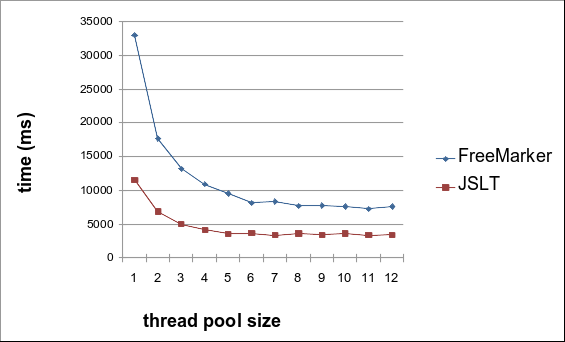
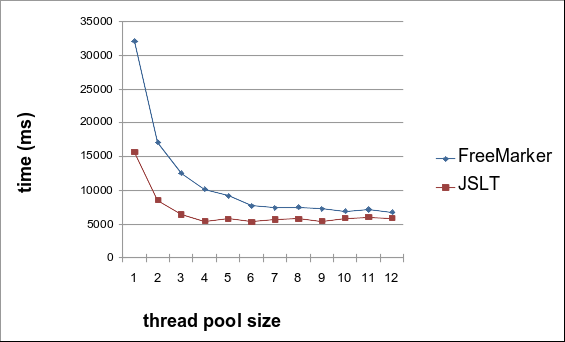
Reviewed results

diff --git a/src/test/java/net/dsf/transformation/ScalabilityTest.java b/src/test/java/net/dsf/transformation/ScalabilityTest.java
@@ -2,6 +2,8 @@ package net.dsf.transformation;
 
 import java.io.File;
 import java.io.IOException;
+import java.util.HashMap;
+import java.util.Map;
 
 import org.junit.Test;
 
@@ -17,10 +19,14 @@ public class ScalabilityTest {
 
 	private static Configuration cfg;
 
+	private static int CPU_COUNT = Runtime.getRuntime().availableProcessors();
+
+	private static Map<String, Long[]> results = new HashMap<>();
+
 	private TransformatioBenchmarkTest benchmark = new TransformatioBenchmarkTest();
 
 	static {
-		cfg = new Configuration(Configuration.VERSION_2_3_27);
+		cfg = new Configuration(Configuration.VERSION_2_3_28);
 
 		try {
 			cfg.setDirectoryForTemplateLoading(new File(ClassLoader.getSystemResource("templates").getFile()));
@@ -35,31 +41,65 @@ public class ScalabilityTest {
 		cfg.setWhitespaceStripping(true);
 	}
 
+	private void save(String k, int cpu, long ms) {
+		Long[] v = results.get(k);
+		v[cpu - 1] = ms;
+		results.put(k, v);
+
+		if (results.size() == 2 && cpu == CPU_COUNT) {
+			StringBuilder report = new StringBuilder();
+			StringBuilder sep = new StringBuilder();
+			sep.append("\n+----------+");
+			for (int i = 0; i < CPU_COUNT; i++)
+				sep.append("-------+");
+			report.append(sep.toString());
+			report.append("\n| Library  |");
+			for (int i = 0; i < CPU_COUNT; i++)
+				report.append(String.format("  %3d  |", i + 1));
+			for (String rs : results.keySet()) {
+				report.append(sep.toString());
+				report.append(String.format("\n| %-8s |", rs));
+				v = results.get(rs);
+				for (int i = 0; i < CPU_COUNT; i++)
+					report.append(String.format(" %5d |", v[i]));
+			}
+			report.append(sep.toString());
+			logger.info(report.toString());
+		}
+	}
+
 	@Test
 	public void scaleFreeMarkerTransformationTest() throws IOException, InterruptedException, TemplateException {
 
 		Template template = cfg.getTemplate("freemarker-template.ftl");
+		results.put("fmkr", new Long[CPU_COUNT]);
 
 		// discard classloader & JIT influences
 		benchmark.threadPoolFreeMarker(1, template);
 		benchmark.sleep(2000L);
-		for (int cpu = 1; cpu <= Runtime.getRuntime().availableProcessors(); cpu++) {
+		for (int cpu = 1; cpu <= CPU_COUNT; cpu++) {
 			long start = benchmark.threadPoolFreeMarker(cpu, template);
+			long time = System.currentTimeMillis() - start;
 			logger.info(String.format("[FreeMarker] %d CPUs -> %d transformations: %d ms", cpu,
-					TransformatioBenchmarkTest.ITERATIONS, (System.currentTimeMillis() - start)));
+					TransformatioBenchmarkTest.ITERATIONS, time));
+			save("fmkr", cpu, time);
 		}
 	}
 
 	@Test
 	public void scaleJSLTTransformationTest() throws IOException, InterruptedException {
 
+		results.put("jslt", new Long[CPU_COUNT]);
+
 		// discard classloader & JIT influences
 		benchmark.threadPoolJSLT(1);
 		benchmark.sleep(2000L);
-		for (int cpu = 1; cpu <= Runtime.getRuntime().availableProcessors(); cpu++) {
+		for (int cpu = 1; cpu <= CPU_COUNT; cpu++) {
 			long start = benchmark.threadPoolJSLT(cpu);
+			long time = System.currentTimeMillis() - start;
 			logger.info(String.format("[JSLT] %d CPUs -> %d transformations: %d ms", cpu,
-					TransformatioBenchmarkTest.ITERATIONS, (System.currentTimeMillis() - start)));
+					TransformatioBenchmarkTest.ITERATIONS, time));
+			save("jslt", cpu, time);
 		}
 	}
 }

diff --git a/src/test/java/net/dsf/transformation/TransformatioBenchmarkTest.java b/src/test/java/net/dsf/transformation/TransformatioBenchmarkTest.java
@@ -96,7 +96,11 @@ public class TransformatioBenchmarkTest {
 
 					StringWriter out = new StringWriter(4096);
 					template.process(map, out);
-					assertNotNull(out.toString()); // our test case expects result as string
+					String res = out.toString();
+					if (cdl.getCount() == 1L)
+						logger.info(res);
+
+					assertNotNull(res); // our test case expects result as string
 					cdl.countDown();
 
 				} catch (IOException | TemplateException e) {
@@ -136,7 +140,10 @@ public class TransformatioBenchmarkTest {
 							JsonNode o = mapper.readTree(source);
 
 							JsonNode json = jslt.apply(o);
-							assertNotNull(json.asText()); // our test case expects result as string
+							String res = json.toString();
+							if (cdl.getCount() == 1L)
+								logger.info(res);
+							assertNotNull(res); // our test case expects result as string
 							cdl.countDown();
 
 						} catch (IOException e) {

diff --git a/README.md b/README.md
@@ -218,24 +218,23 @@ It's pretty evident that, for this hardware and scenario, configure the thread p
 
 In real production cases, there will be a lot of I/O (_amqp, kafka_) and thus, a bigger thread pool size should help a lot.
 
-Although it does not scales linearly (as expected, since concurrency and garbage collector plays a big role here), a _6-threaded pool_ was able to deliver a satisfactory result, transforming **122k** documents per second.
+Although it does not scales linearly (as expected, since concurrency, garbage collector and processor thermal throttling may play a big role here), a _6-threaded pool_ was able to deliver a satisfactory result, transforming **147k** documents per second.
 
 Weaknesses:
 - freeMarker does not handle separators on arrays, so I had to do that manually (using variables): not really nice to see.
 
 
 ### JSLT
-JSLT does not seems to get expressive advantages from parallel processing, but it delivers real fast computation for my use case since a couple of threads.
+JSLT does not seems to get expressive advantages from parallel processing with more than 3 threads, but it delivers real fast computation for my use case from the beginning.
 
-Here happened the same as FreeMarker: more that 6 threads is not useful. But it was able to deliver a huge amount of documents: **278k** documents transformed with 5 threads pool.
+Here happened the same as FreeMarker: more that 6 threads is not useful. But it was able to deliver a huge amount of documents: **185k** documents transformed with 6 threads pool.
 
 Weaknesses:
-- there are?
+- not found as far I could explore...
 
 
 I'm surprised with JSLT and in just a couple of hours I was able to break my initial resistance to its template code style/syntax.
 
 For my use case, **JSLT won the most important criteria**:
-- it scales
-- it is fast
-- it is readable and elegant
+- it is faster
+- template is readable and elegant
